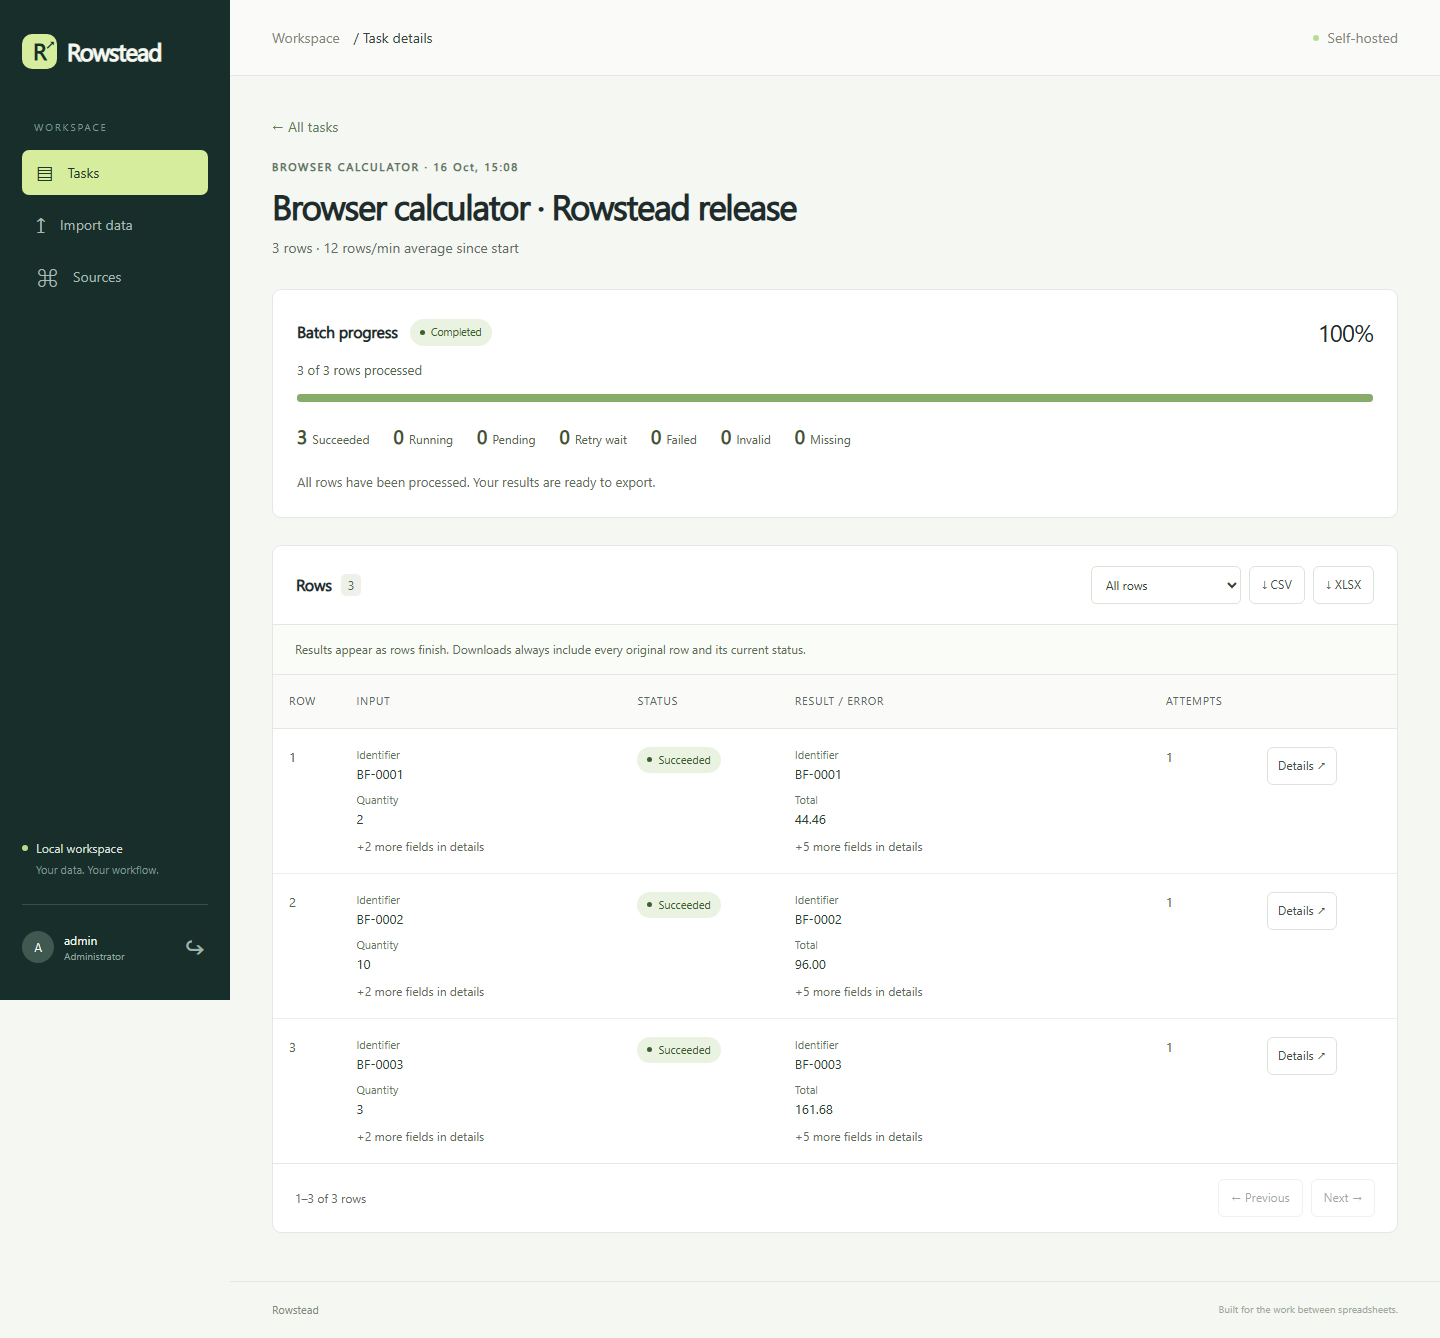
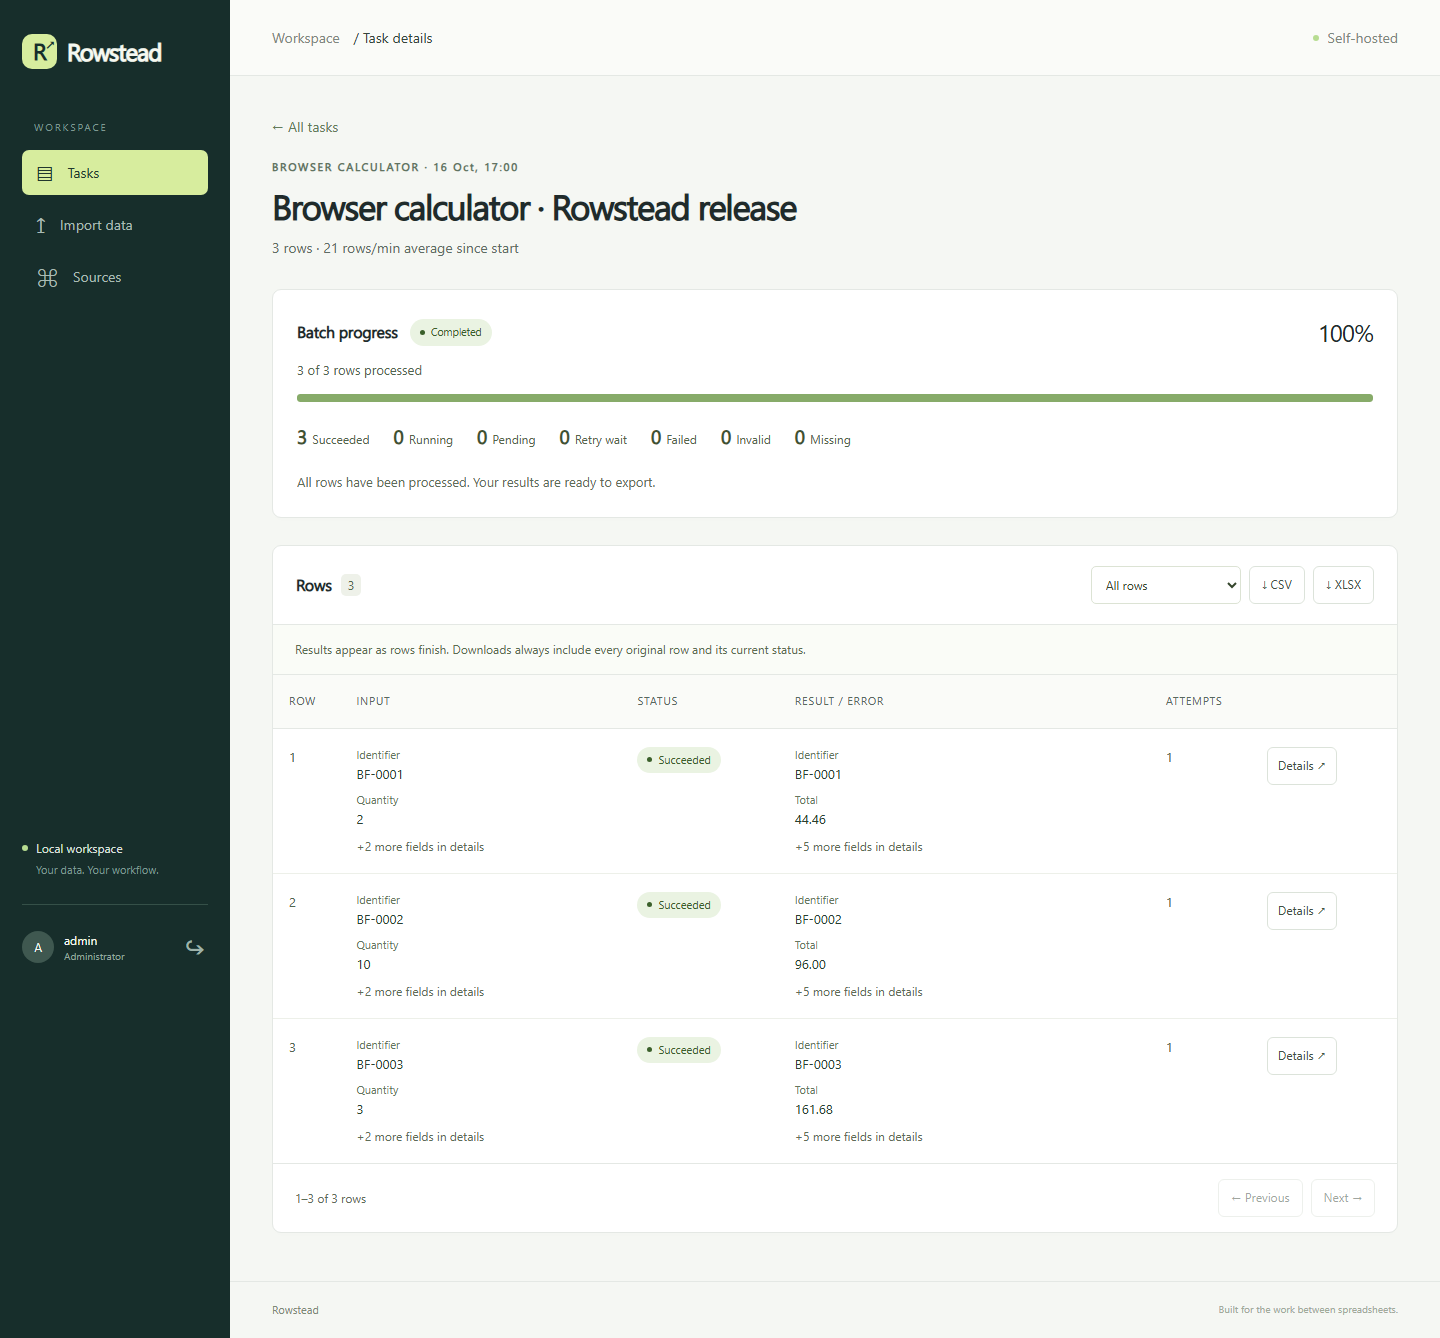
Fix sidebar background on long pages

Changed region(s): [[0.0, 0.7354, 0.1875, 1.0]]

diff --git a/app/static/app.css b/app/static/app.css
@@ -2,6 +2,8 @@
 @media(min-width:1500px){.page-content{padding-top:50px}}@media(max-width:1100px){.sidebar{width:190px;padding:30px 16px}.brand{font-size:22px}.main{margin-left:190px}.page-content{padding:30px 26px}.topbar{padding:0 26px}.stats-grid{gap:10px}.stat-card{padding:17px 15px}.panel-toolbar{padding:17px}.progress-legend{gap:18px}.page-heading{gap:15px}.page-heading .button-row{justify-content:flex-end}.login-story{padding:35px 7%}.flow-visual{gap:7px}.flow-visual>span{padding:10px 8px}}@media(max-width:760px){.sidebar{position:relative;width:100%;padding:17px 20px;display:flex;flex-direction:row;align-items:center;gap:25px}.brand{font-size:20px;gap:7px}.brand-icon{width:29px;height:29px;font-size:20px}.workspace-label,.sidebar-bottom{display:none}.sidebar nav{display:flex;margin-left:auto;gap:6px}.sidebar nav a{padding:8px;font-size:11px;gap:5px}.sidebar nav a span{font-size:16px}.main{margin-left:0}.topbar{height:52px;padding:0 20px}.page-content{padding:28px 20px 35px}.page-heading{align-items:flex-start;flex-wrap:wrap;margin-bottom:25px}h1{font-size:30px}.page-heading .button-row{justify-content:flex-start}.stats-grid{grid-template-columns:repeat(2,1fr);margin-bottom:23px}.stat-card{padding:15px}.stat-card strong{font-size:27px;margin:7px 0}.stat-card small{font-size:9px}.panel-toolbar{padding:16px;flex-wrap:wrap}.panel-toolbar>.button-row{width:100%;gap:7px}.panel-toolbar .search{margin-left:auto}.search input{width:125px}.panel-toolbar h2{font-size:14px}th{padding:11px 16px}td{padding:16px}footer{padding:18px 20px}.source-grid{grid-template-columns:1fr}.upload-panel,.config-panel{padding:19px}.dropzone{padding:27px 14px}.upload-options{gap:12px;flex-wrap:wrap}.upload-options label{flex:1;min-width:120px}.upload-options>.button{margin:5px 0 0;width:100%}.form-grid{grid-template-columns:1fr;gap:17px}.form-actions{flex-direction:column;align-items:stretch}.form-actions>.button{width:100%}.progress-panel{padding:19px}.progress-heading{align-items:flex-start}.progress-heading h2{flex-wrap:wrap;font-size:14px}.progress-heading strong{font-size:20px}.progress-legend{gap:13px}.progress-legend span{font-size:10px}.progress-legend strong{font-size:15px}.pagination{padding:14px;gap:10px}.pagination .button{font-size:10px;padding:7px}.login-layout{grid-template-columns:1fr}.login-story{padding:25px;min-height:320px}.login-story>.brand{font-size:22px}.login-story>div{padding:25px 0 0}.login-story .eyebrow{margin-bottom:10px;font-size:9px}.login-story h1{font-size:44px;letter-spacing:-2px;margin:0 0 15px}.login-story p{font-size:12px;max-width:370px}.login-story>small,.flow-visual{display:none}.login-panel{padding:35px 25px}.login-card{max-width:420px}.login-card h2{font-size:27px}.login-card form{margin-top:24px}}@media(prefers-reduced-motion:reduce){*{transition:none!important;scroll-behavior:auto!important}}
 .sample-links{display:flex;gap:17px;align-items:center;flex-wrap:wrap;color:#98a48d;font-size:10px;margin-top:15px}.sample-links a{color:#5d7d4e;text-decoration:underline;text-underline-offset:3px}.progress-cell progress{width:100%;height:4px;display:block;border:0;border-radius:3px;overflow:hidden;background:#eef1e8;appearance:none}.progress-cell progress::-webkit-progress-bar{background:#eef1e8}.progress-cell progress::-webkit-progress-value{background:#87ab69;border-radius:3px}.progress-cell progress::-moz-progress-bar{background:#87ab69;border-radius:3px}
 h1{overflow-wrap:anywhere}@media(max-width:520px){.sidebar{flex-wrap:wrap;gap:16px}.sidebar nav{width:100%;justify-content:space-between;margin:0}.sidebar nav a{font-size:12px;padding:9px 12px}.topbar-note{font-size:10px}.page-heading .text-link{margin-top:0}.progress-heading{flex-wrap:wrap}.progress-legend{gap:12px 20px}.stat-card>span{font-size:11px}.stat-card small{font-size:9px}.pagination .muted{font-size:10px}}
+/* Keep the sidebar rail continuous below the fixed navigation on long pages. */
+@media(min-width:761px){body:has(>.sidebar){background:var(--dark)}body:has(>.sidebar)>.main{background:var(--bg)}}
 /* Readable operational data and responsive row cards. */
 :root{--muted:#5e6d65}
 body{font-size:14px}

diff --git a/docs/verification.md b/docs/verification.md
@@ -207,3 +207,15 @@ completed successfully:
 The release contains source and synthetic screenshots. Videos, databases, uploads,
 backups, local environment files and internal notes are excluded. Earlier mentions
 of unpublished state in this report describe the checkpoints before this release.
+
+## Long-page sidebar correction — 2026-10-16
+
+The fixed desktop sidebar used to end at the viewport edge in full-page captures,
+leaving a light patch below it. Desktop shell pages now paint the sidebar color
+through the entire document, while the main content keeps its light background.
+
+Actual Chromium checks passed at 1440 px and 1024 px widths on pages taller than
+the viewport. The bottom-left screenshot pixel is the sidebar color `#172e2b`.
+At 390 px the mobile background remains `#f5f7f3`; login and API reference pages
+also retain their original backgrounds. No horizontal overflow was detected.
+Four public screenshots were refreshed from the rebuilt Compose app, without video.
